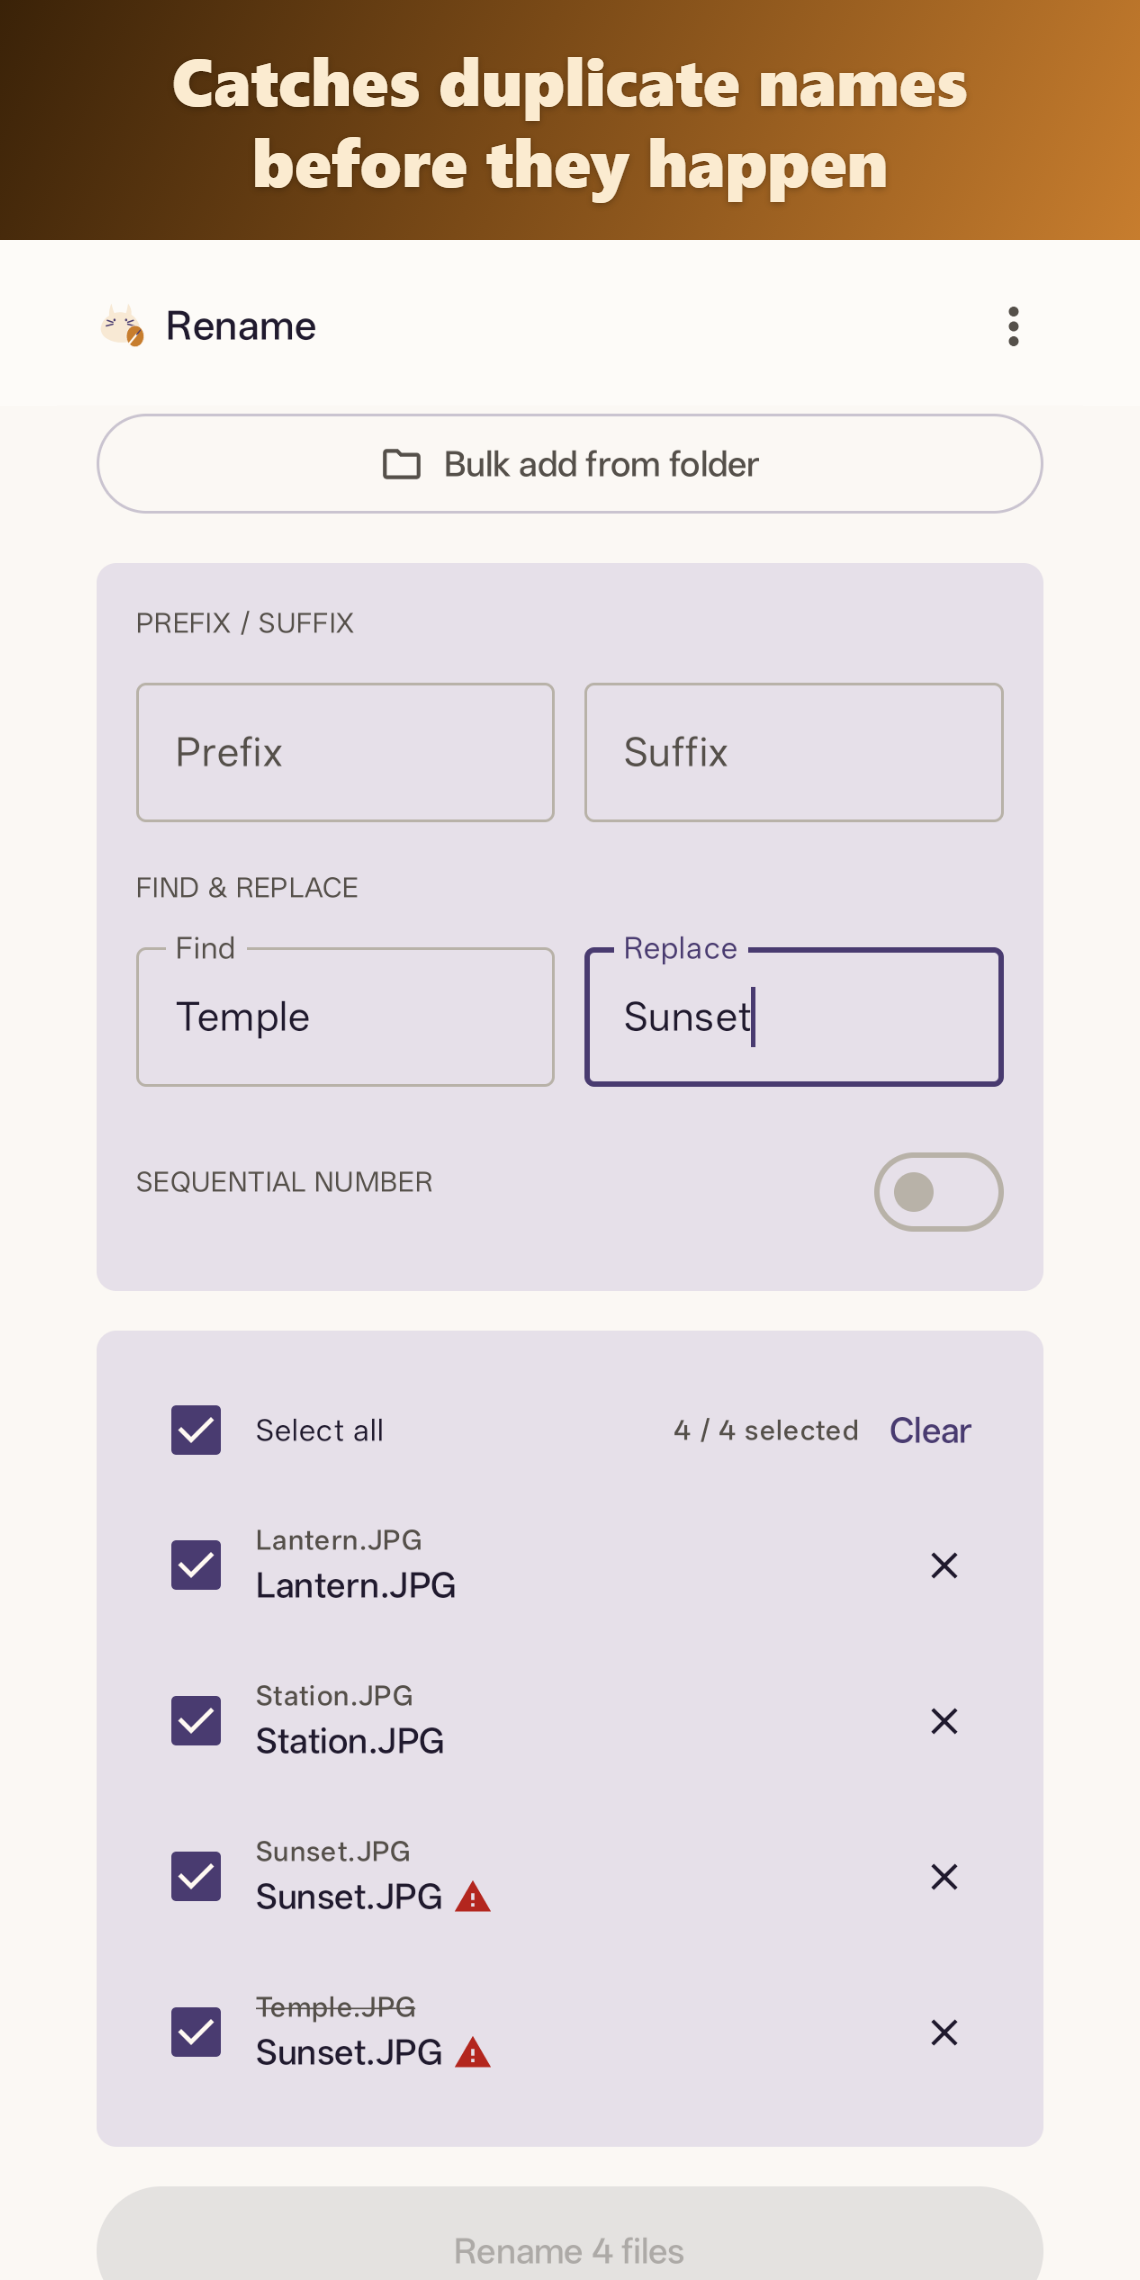
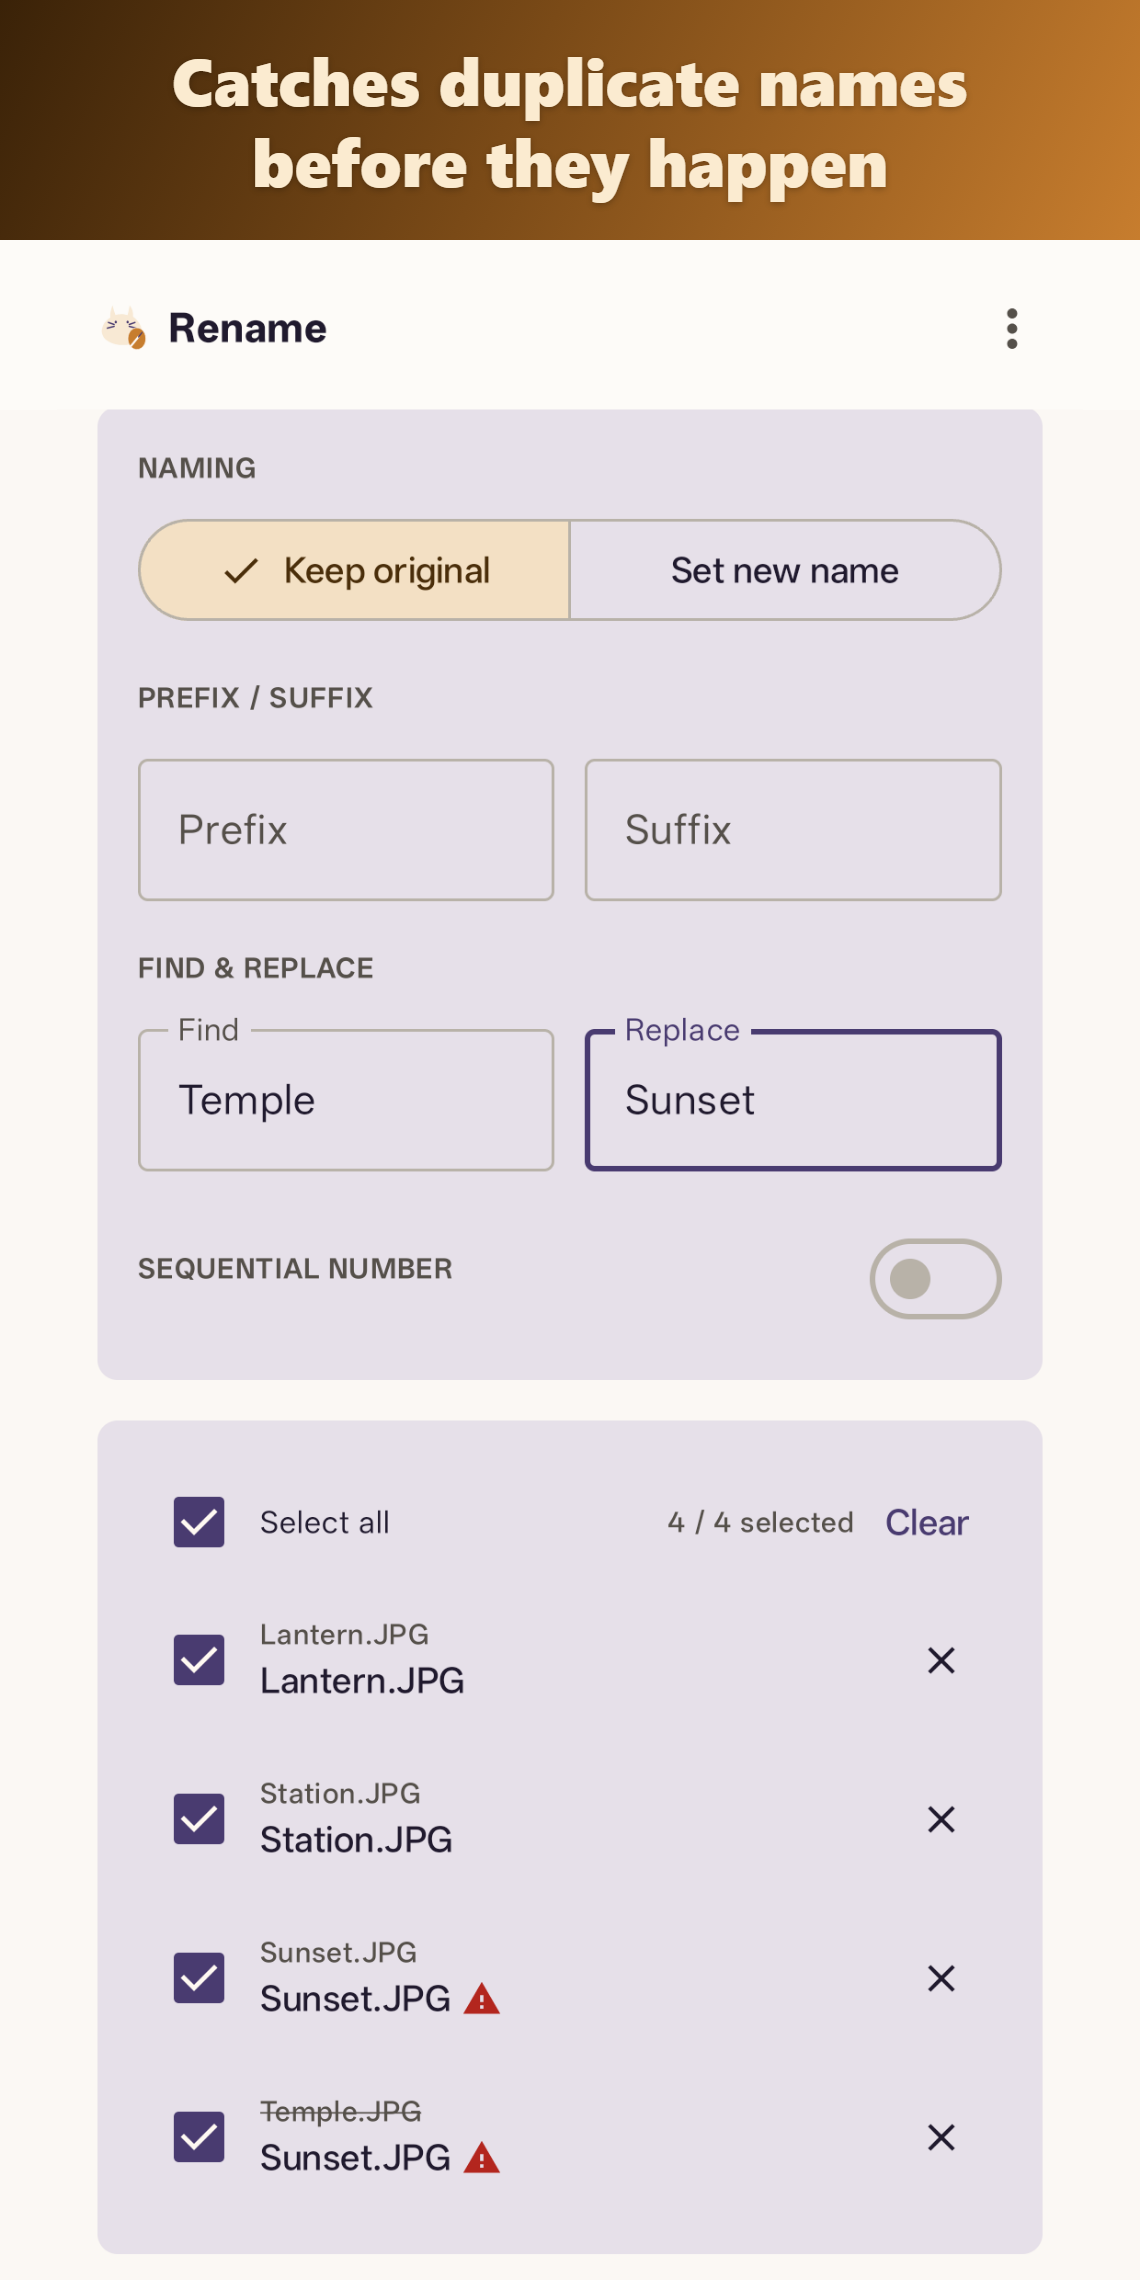
Update Rename screenshots and add the 'set a new name' feature

diff --git a/rename/index.html b/rename/index.html
@@ -216,6 +216,10 @@
         <p data-ja="すべてのファイルの「今の名前」と「変更後の名前」を並べて表示。「リネーム」を押すまで、ファイルには一切触れません。" data-en="Every file shows its current and new name side by side. Nothing is touched until you tap Rename.">すべてのファイルの「今の名前」と「変更後の名前」を並べて表示。「リネーム」を押すまで、ファイルには一切触れません。</p>
       </div>
       <div class="feature-card">
+        <h3 data-ja="名前を丸ごと新しくする" data-en="Set a brand-new name">名前を丸ごと新しくする</h3>
+        <p data-ja="元の名前を使わず、「Kyoto_」のような新しい名前に付け替え。複数のファイルは自動で連番になり、拡張子はそのまま保たれます。" data-en="Drop the old name and give your files a new one such as &quot;Kyoto_&quot;. A batch is numbered automatically and the extension is kept.">元の名前を使わず、「Kyoto_」のような新しい名前に付け替え。複数のファイルは自動で連番になり、拡張子はそのまま保たれます。</p>
+      </div>
+      <div class="feature-card">
         <h3 data-ja="先頭・末尾に文字を追加" data-en="Prefix and suffix">先頭・末尾に文字を追加</h3>
         <p data-ja="全ファイル名の先頭または末尾に好きな文字を追加。拡張子はそのまま保たれます。" data-en="Add text to the start or the end of every name. The file extension is always kept.">全ファイル名の先頭または末尾に好きな文字を追加。拡張子はそのまま保たれます。</p>
       </div>
@@ -242,12 +246,12 @@
 <section>
   <div class="section-inner">
     <h2 data-ja="アプリの画面" data-en="Screenshots">アプリの画面</h2>
-    <p class="section-sub" data-ja="プレビュー、置換、連番、重複の警告、そして元に戻す。" data-en="Preview, replace, number, duplicate warning — and undo.">プレビュー、置換、連番、重複の警告、そして元に戻す。</p>
+    <p class="section-sub" data-ja="プレビュー、置換、新しい名前、重複の警告、そして元に戻す。" data-en="Preview, replace, new names, duplicate warning — and undo.">プレビュー、置換、新しい名前、重複の警告、そして元に戻す。</p>
     <div class="shots">
       <img src="assets/feature-2-find_replace.png" loading="lazy" data-ja-src="assets/feature-2-find_replace.png" data-en-src="assets/en/feature-2-find_replace.png"
            alt="ファイル名の一部をまとめて置換" data-ja-alt="ファイル名の一部をまとめて置換" data-en-alt="Find and replace in file names">
-      <img src="assets/feature-3-numbering.png" loading="lazy" data-ja-src="assets/feature-3-numbering.png" data-en-src="assets/en/feature-3-numbering.png"
-           alt="連番もワンタップで付与" data-ja-alt="連番もワンタップで付与" data-en-alt="Sequential numbers in one tap">
+      <img src="assets/feature-3-new_name.png" loading="lazy" data-ja-src="assets/feature-3-new_name.png" data-en-src="assets/en/feature-3-new_name.png"
+           alt="名前を丸ごと新しく、連番もおまかせ" data-ja-alt="名前を丸ごと新しく、連番もおまかせ" data-en-alt="Give files a brand-new name, numbered for you">
       <img src="assets/feature-4-duplicate_warning.png" loading="lazy" data-ja-src="assets/feature-4-duplicate_warning.png" data-en-src="assets/en/feature-4-duplicate_warning.png"
            alt="名前の重複は実行前にお知らせ" data-ja-alt="名前の重複は実行前にお知らせ" data-en-alt="Duplicate names are caught before they happen">
       <img src="assets/feature-5-rename_done.png" loading="lazy" data-ja-src="assets/feature-5-rename_done.png" data-en-src="assets/en/feature-5-rename_done.png"
